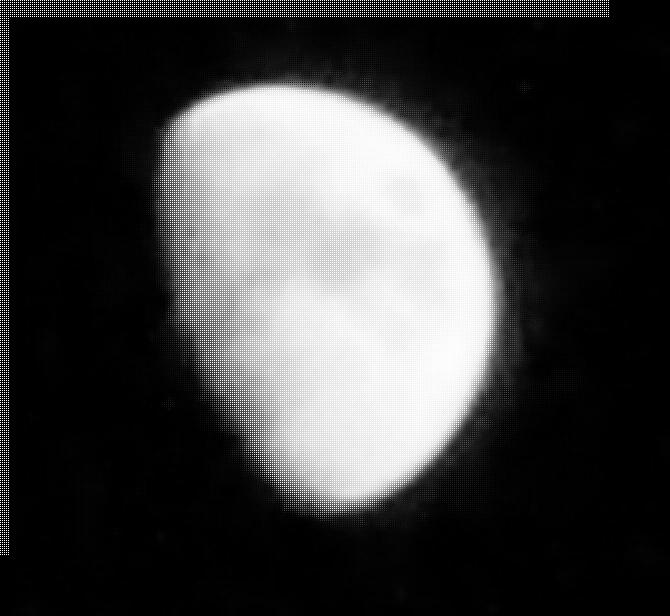
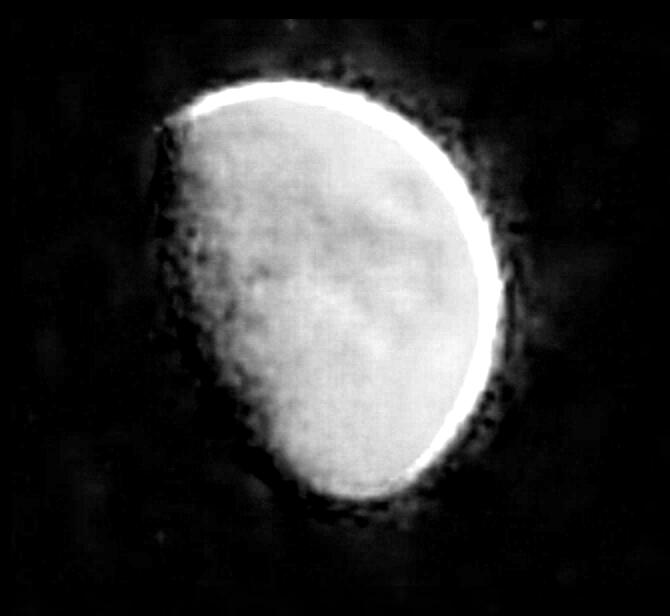
=at least there is sth shitty on the image

Changed region(s): [[0.209, 0.0617, 0.806, 0.8636], [0.0, 0.0, 0.9254, 0.8945]]

diff --git a/his.py b/his.py
@@ -1,12 +1,12 @@
 #!/usr/bin/env python
 import Image
-
+# this code is full of shit
 
 files = ['moon1.JPG', 'moon2.JPG']
 images = []
 output_fname = 'output.JPG'
 zoom = 2
-c = 3
+c = 2.2
 
 for f in files:
     images.append(Image.open(f))
@@ -19,14 +19,17 @@ estimated = estimated.resize(bigger_size, Image.ANTIALIAS)
 
 for i in images:
     """ every image may add sth to the output """
-    for x in range(0, i.size[0]-30):
-        for y in range(0, i.size[1]-30):
-            (re,ge,be) = i.getpixel((x,y))
-            (ri,gi,bi) = estimated.getpixel((x*zoom,y*zoom))
 
-            r = (re - ri)*c
-            """the are all black and white so whatever"""
-            estimated.putpixel((x*zoom*1.0, y*zoom*1.0), (r, r, r))
+
+    z = i.resize(bigger_size, Image.ANTIALIAS) 
+   
+    for x in range(0, estimated.size[0]-30):
+        for y in range(0, estimated.size[1]-30):
+            (fo,_,_) = estimated.getpixel((x,y))
+            (fi,_,_) = z.getpixel((x,y)) 
+
+            v = int((fo-fi)*c)
+            estimated.putpixel((x, y), (fo+v, fo+v, fo+v))
 
 
 estimated.save(output_fname)
